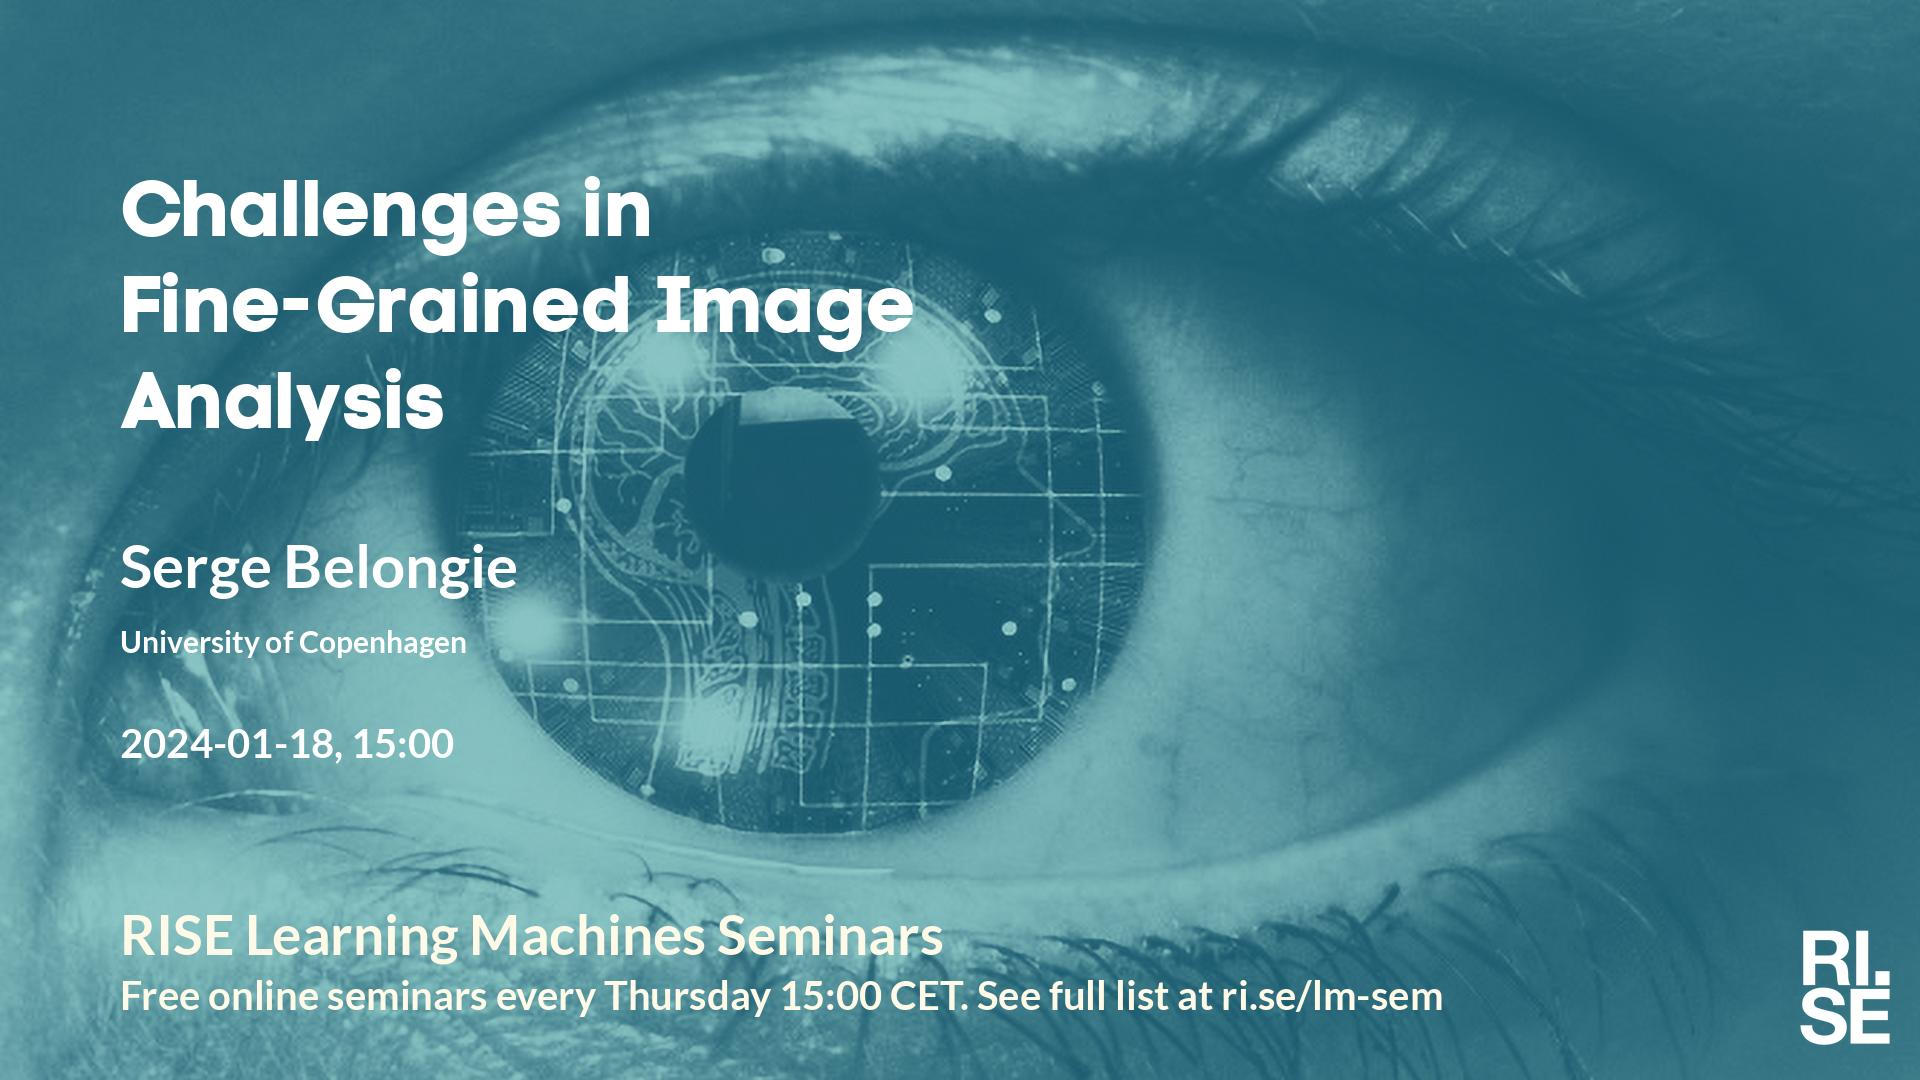
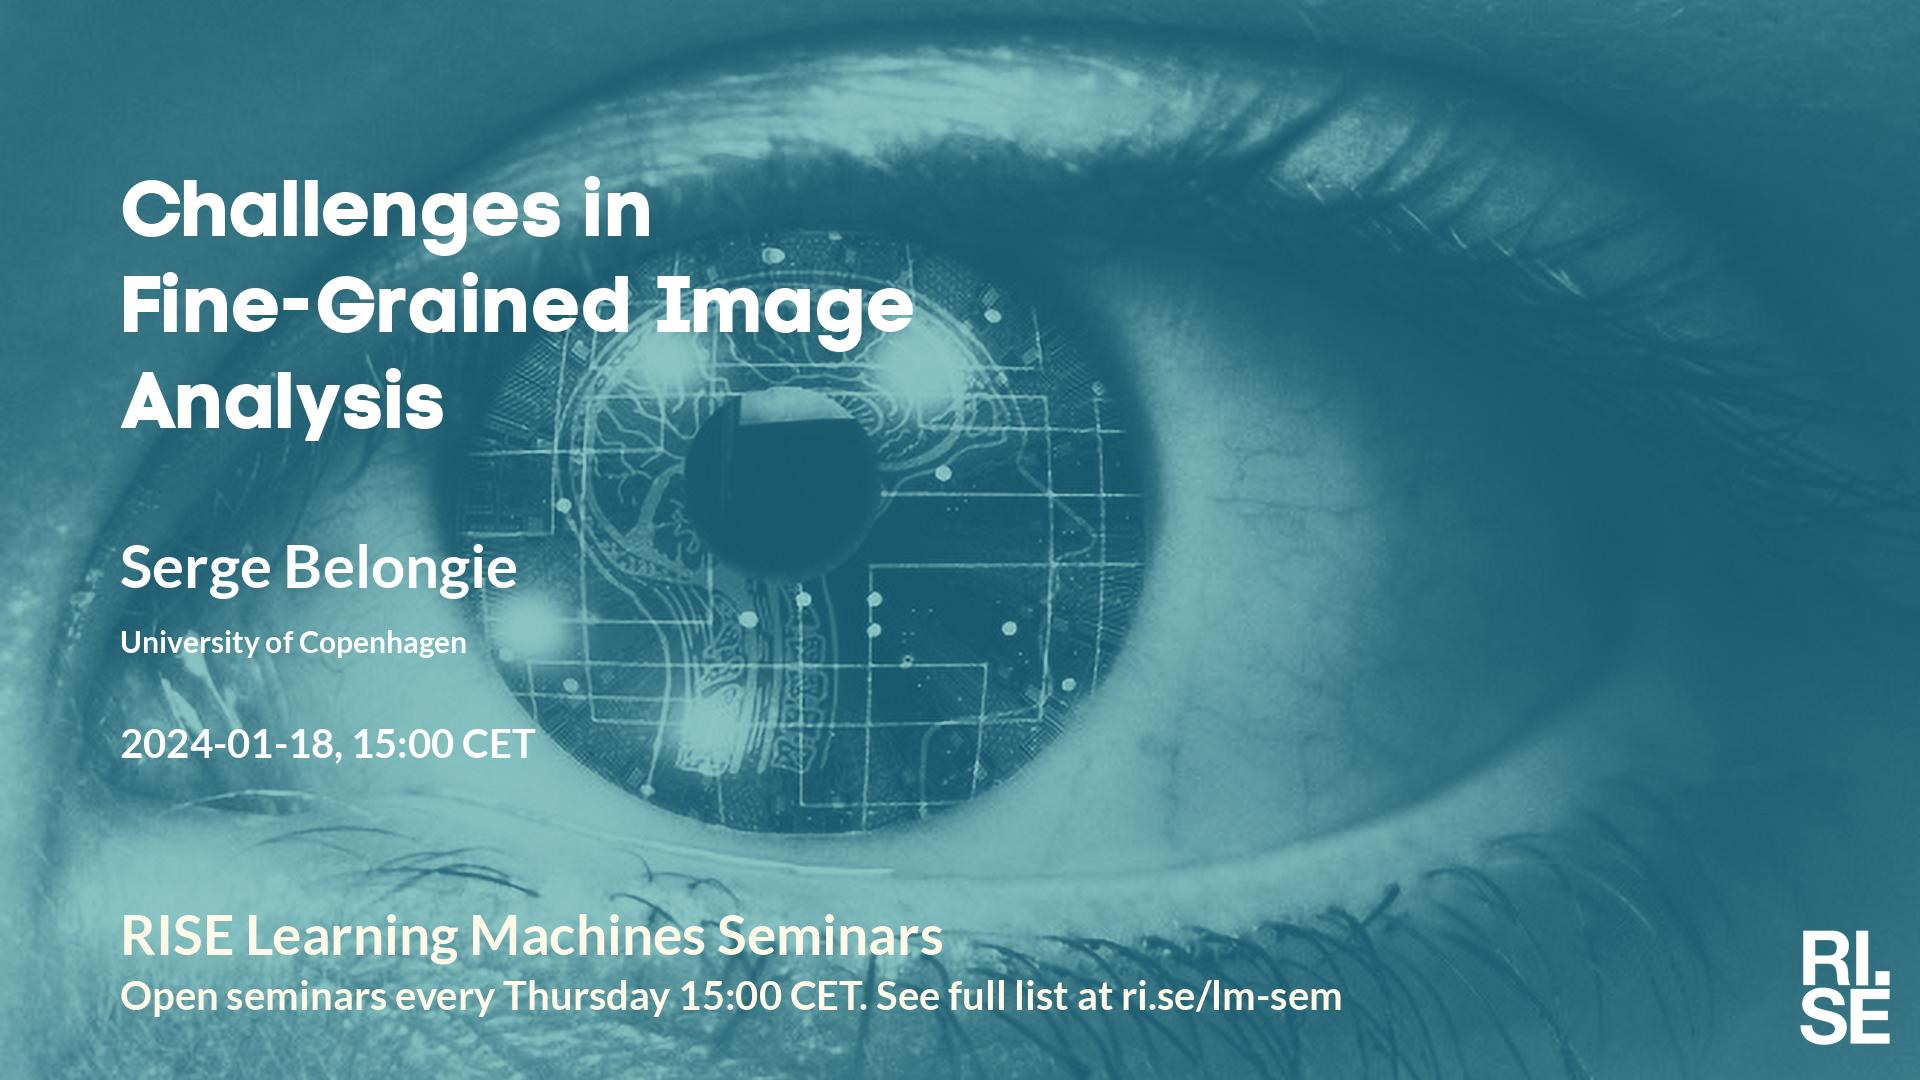
Updated plan on web site.

Changed region(s): [[0.0625, 0.8861, 0.75, 0.9472], [0.2188, 0.6722, 0.2812, 0.7028]]

diff --git a/lm/2024-01-18.md b/lm/2024-01-18.md
@@ -14,12 +14,16 @@ Welcome to this week's Learning Machines seminar.
 
 **Location:** RISE Lund Office (Scheelevägen 17), or online using Zoom.
 
+**Date:** 2024-01-18 15:00
+
 **Zoom link:** [https://rise.zoom.us/j/208117140?pwd=c2U5RDR0WnpzU041dGNISVdhNUkyQT09](https://rise.zoom.us/j/208117140?pwd=c2U5RDR0WnpzU041dGNISVdhNUkyQT09)
 
 **Upcoming seminars:**
 
 * 2024-01-25: Joakim Lindblad, Uppsala University
 * 2024-02-08: Liane Guillou, RISE Research Institutes of Sweden
+* 2024-02-22: Alexander Mathis, EPFL
+* All seminars are 15:00 CET.
 
 More information and coming seminars: [https://ri.se/lm-sem](https://ri.se/lm-sem)
 
